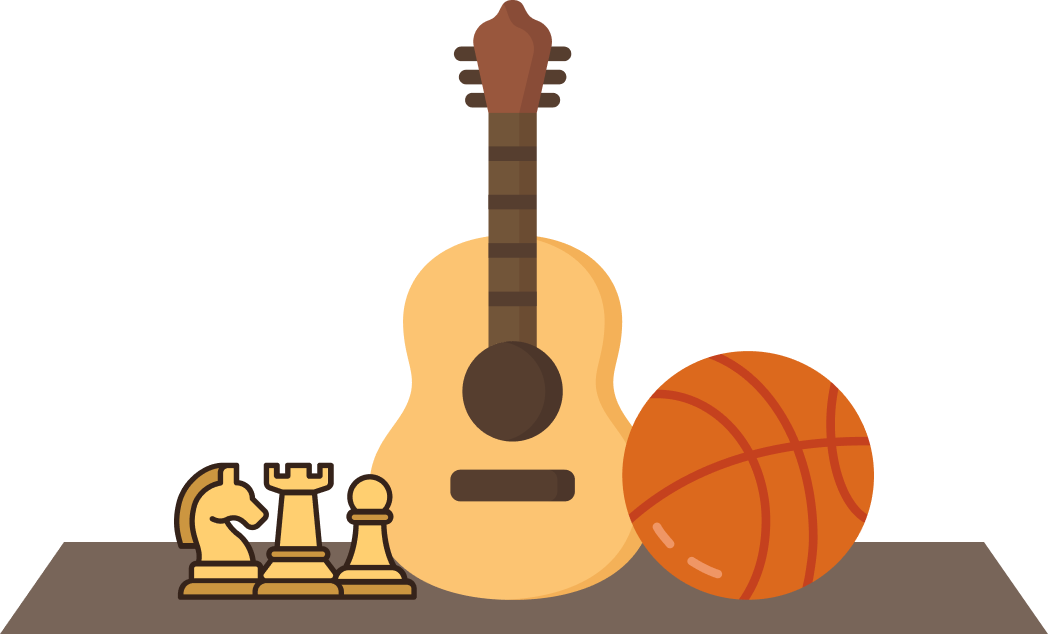
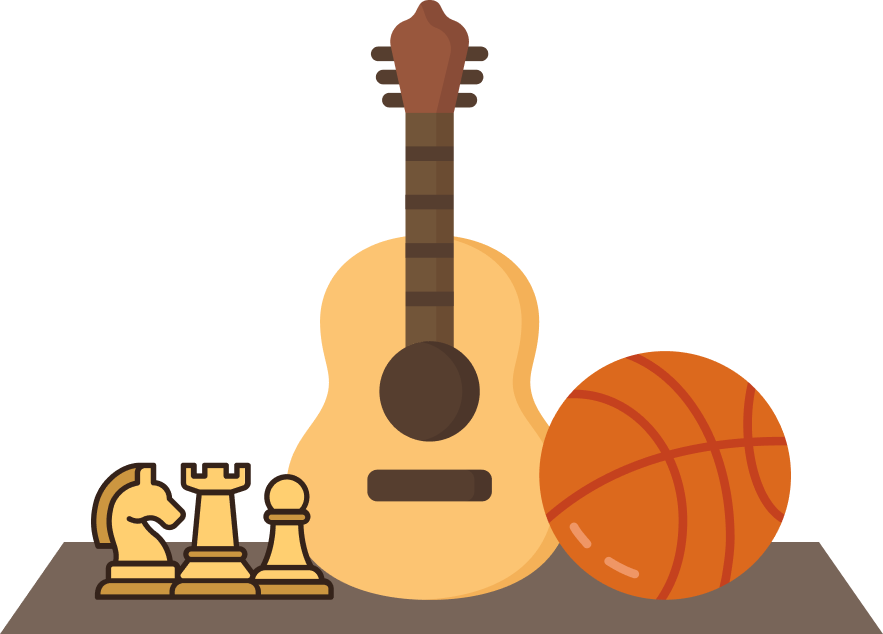
redesign website sections

diff --git a/index.html b/index.html
@@ -165,9 +165,11 @@
     <!--about-->
     <section id="about" class="section">
         <div class="section-content">
-            <h2 class="section-heading">ABOUT ME</h2>
-            <p class="section-text">I’m a first-year student at McMaster University in the Integrated Biomedical Engineering & Health Sciences program. In my free time, I enjoy playing sports, chess, and the guitar! Career wise, I've always been interested in entrepreneurship and hope to one day lead a start up. In the meantime, I'm looking to try out new things and learn new skills.</p>
-            <p class="section-text">Aside from career goals, it's always been my dream to travel the world. One of my many life goals is to explore the planet and experience new places, cultures, and cuisines! So, if you have any travel recommendations, please let me know and I'll add it to my already-overfilled travel bucket list!</p>
+            <div class="about-text">
+                <h2 class="section-heading">About</h2>
+                <p class="section-text">I’m a first-year Engineering student at McMaster University. In my free time, I enjoy playing sports, chess, and the guitar! Career wise, I've always been interested in entrepreneurship and hope to one day lead a start up.</p>
+                <p class="section-text">Aside from career goals, it's always been my dream to travel the world. One of my many life goals is to explore the planet and experience new places, cultures, and cuisines! So, if you have any travel recommendations, please let me know and I'll add it to my already-overfilled travel bucket list!</p>
+            </div>
             <img class="hobbies-img" src="assets/images/hobbies.png" alt="Hobbies">
         </div>
     </section>
@@ -175,7 +177,7 @@
     <!--projects-->
     <section id="projects" class="section">
         <div class="section-content">
-            <h2 class="section-heading">MY PROJECTS</h2>
+            <h2 class="section-heading">Projects</h2>
             <p class="section-text">Here are some of my projects over the years... See more on <a class="paragraph-link" href="https://github.com/chungdavid" target="_blank">GitHub</a>.</p>
             <div class="projects-container">
 
@@ -254,7 +256,6 @@
                         <div class="project-card-skills">
                             <span>Adobe Illustrator</span>
                             <span>Product Design</span>
-                            <span>Entrepreneurship</span>
                         </div>
                         <div class="project-card-links">
                             <a target="_blank" href="https://drive.google.com/drive/folders/1Fq6RPGazNu-mceiQ6TFRdVeEdaMd2p5Z?usp=sharing">VIEW PROJECT<i class="fas fa-external-link-alt"></i></a>

diff --git a/styles/styles.css b/styles/styles.css
@@ -154,17 +154,17 @@ h1 {
 }
 
 .section-heading {
-    font-weight: 500;
+    font-weight: 700;
     color: var(--blue-500);
-    font-size: 1em;
-    margin-bottom: 0.25em;
+    font-size: 1.5em;
+    margin-bottom: 0.35em;
 }
 
 .section-text {
     font-weight: 400;
     color: var(--black);
     font-size: 1.25 em;
-    margin-bottom: 1em;
+    margin-bottom: 0.75em;
 }
 
 .paragraph-link {
@@ -426,7 +426,7 @@ header {
     max-width: 700px;
 }
 
-/* mobile styles - sections (general) */
+/* mobile styles, sections (general) */
 .section {
     padding: 4em 5% 0.5em 5%;
     background-color: var(--white);
@@ -439,11 +439,15 @@ header {
 }
 
 /* mobile styles - about section */
+#about .section-content {
+    display: flex;
+    flex-direction: column;
+    align-items: center;
+}
+
 .hobbies-img {
-    display: block;
     width: 100%;
-    max-width: 400px;
-    margin: 0 auto;
+    max-width: 21em;
     transition: all 0.5s ease;
 }
 
@@ -672,8 +676,17 @@ footer {
         font-size: 16px;
     }
 
-    #showcase {
+    #showcase,
+    #about .section-content {
         flex-direction: row;
+    }
+
+    .about-text {
+        padding-right: 1em;
+    }
+
+    .hobbies-img {
+        width: 40%;
     }
     
     .hamburger,
